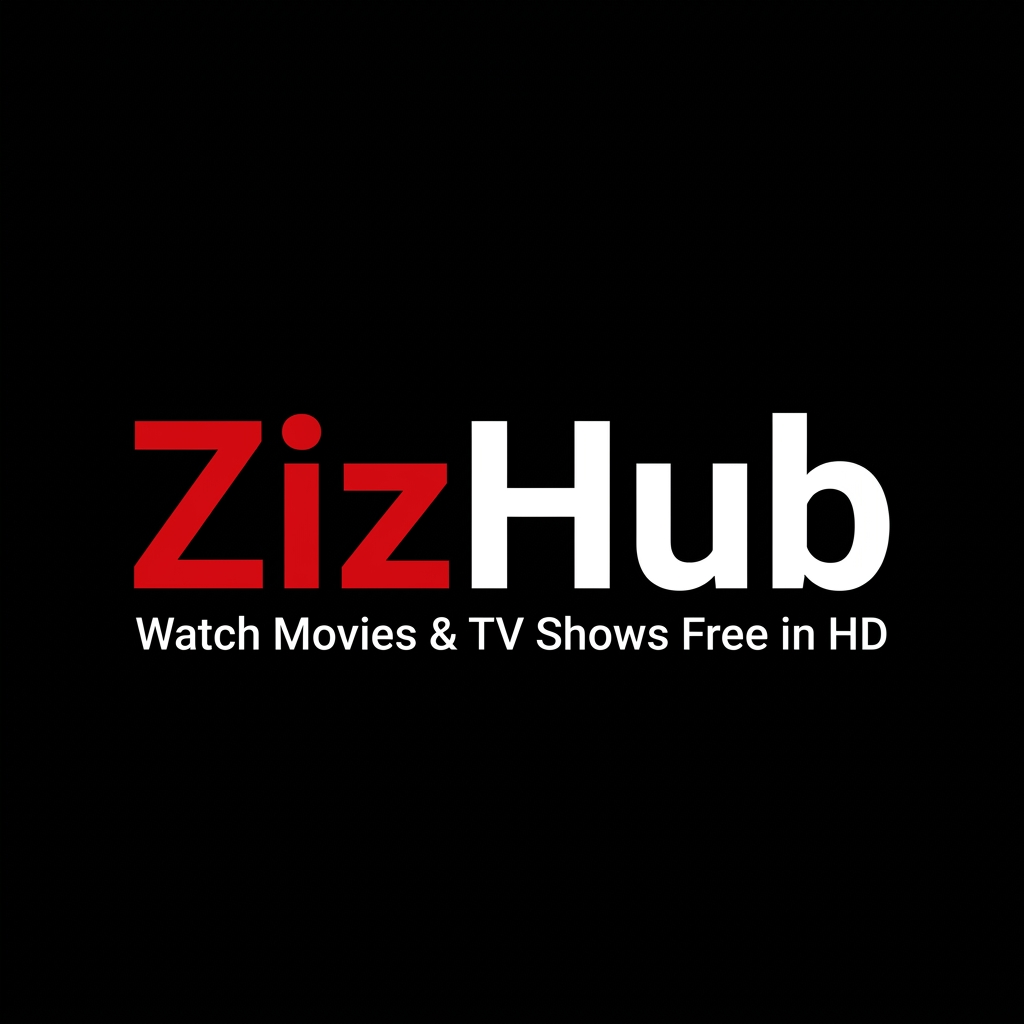
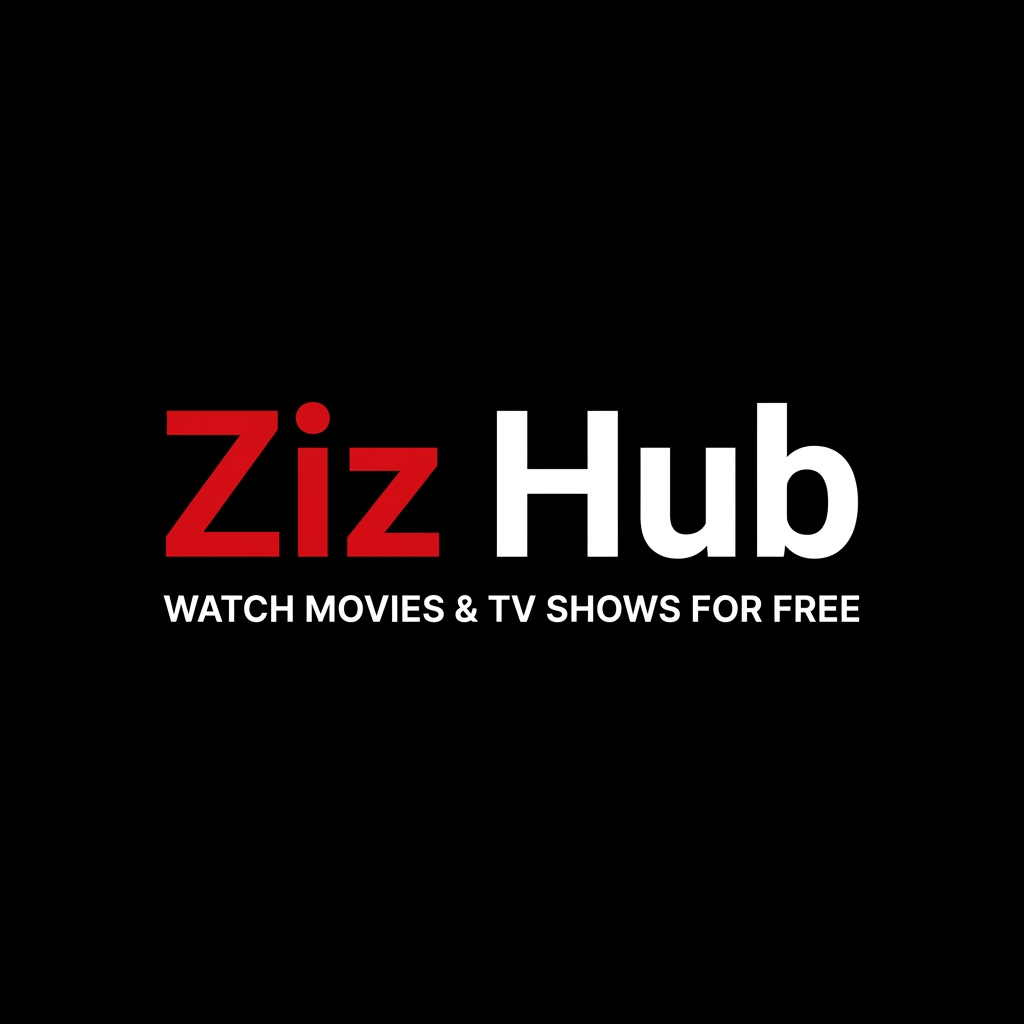
update OG image to Watch Movies & TV Shows For Free with v=5 cache buster

Changed region(s): [[0.125, 0.375, 0.875, 0.6562]]

diff --git a/app/[locale]/page.js b/app/[locale]/page.js
@@ -79,10 +79,10 @@ export async function generateMetadata(props) {
             siteName: 'ZizHub',
             images: [
                 {
-                    url: `${SITE_URL}/og-image.png?v=4`,
+                    url: `${SITE_URL}/og-image.png?v=5`,
                     width: 1200,
                     height: 630,
-                    alt: 'ZizHub - Watch Movies & TV Shows Free in HD',
+                    alt: 'ZizHub - Watch Movies & TV Shows For Free',
                 }
             ],
             type: 'website',
@@ -92,7 +92,7 @@ export async function generateMetadata(props) {
             card: 'summary_large_image',
             title,
             description,
-            images: [`${SITE_URL}/og-image.png?v=4`],
+            images: [`${SITE_URL}/og-image.png?v=5`],
         },
         keywords: isAr
             ? ['أفلام', 'مسلسلات', 'مشاهدة مجانية', 'فيلم', 'مسلسل', 'بث مباشر', 'HD']

diff --git a/app/layout.js b/app/layout.js
@@ -26,10 +26,10 @@ export const metadata = {
     type: 'website',
     images: [
       {
-        url: '/og-image.png?v=4',
+        url: '/og-image.png?v=5',
         width: 1200,
         height: 630,
-        alt: 'ZizHub - Watch Movies & TV Shows Free in HD',
+        alt: 'ZizHub - Watch Movies & TV Shows For Free',
       },
     ],
   },
@@ -37,7 +37,7 @@ export const metadata = {
     card: 'summary_large_image',
     title: 'ZizHub - Free Movies & TV Shows Streaming',
     description: 'Stream thousands of top movies and TV series free in full HD on ZizHub.',
-    images: ['/og-image.png?v=4'],
+    images: ['/og-image.png?v=5'],
   },
   verification: {
     google: process.env.NEXT_PUBLIC_GOOGLE_SITE_VERIFICATION || 'RetFRXiOgoyM5G7xUBlpRIQIZ85-z80QTyCx0lX21pM',
